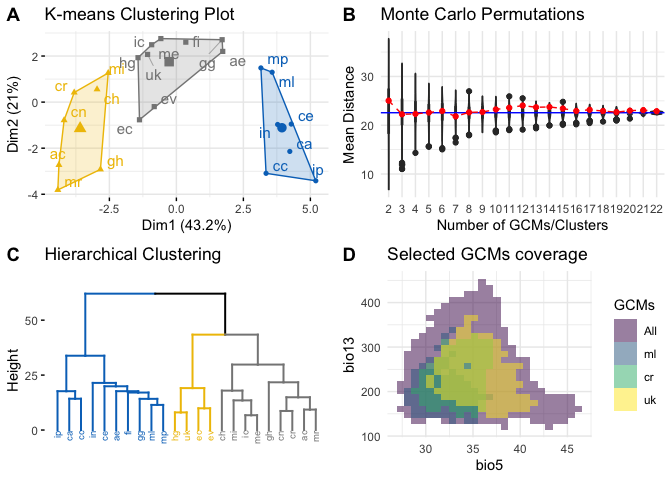
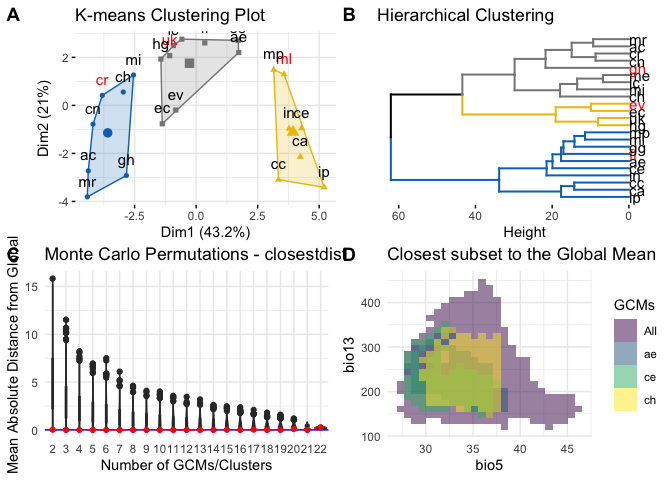
lgo

diff --git a/README.md b/README.md
@@ -6,6 +6,8 @@
 <!-- badges: start -->
 <!-- badges: end -->
 
+# chooseGCM <a href="https://luizesser.github.io/chooseGCM/"><img src="man/figures/logo.png" align="right" height="85" alt="chooseGCM website" /></a>
+
 The goal of chooseGCM is to help researchers aiming to project Species
 Distribution Models and Ecological Niche Models to future scenarios by
 applying a selection routine to the General Circulation Models.
@@ -84,6 +86,7 @@ it is in supplementary data from studies using this package.
 
 ``` r
 res <- compare_gcms(s, var_names, study_area_parana, k = 3)
+#> CRS from s and study_area are not identical. Reprojecting study area.
 #> Warning: The `<scale>` argument of `guides()` cannot be `FALSE`. Use "none" instead as
 #> of ggplot2 3.3.4.
 #> ℹ The deprecated feature was likely used in the factoextra package.
@@ -132,6 +135,7 @@ a list of GCMs with a table associated with each of them.
 ``` r
 # Summary of GCMs
 s_sum <- summary_gcms(s, var_names, study_area_parana)
+#> CRS from s and study_area are not identical. Reprojecting study area.
 s_sum
 #> $ac
 #>         min quantile_0.25 median      mean quantile_0.75   max        sd NAs
@@ -377,7 +381,10 @@ available methods.
 
 ``` r
 # Pearson Correlation between GCMs
-s_cor <- cor_gcms(s, var_names, study_area_parana, method = "pearson")
+s_cor <- cor_gcms(s, var_names, study_area_parana, scale = TRUE, method = "pearson")
+#> CRS from s and study_area are not identical. Reprojecting study area.
+#> Scale for fill is already present.
+#> Adding another scale for fill, which will replace the existing scale.
 s_cor
 #> $cor_matrix
 #>           ac        ae        ca        cc        ce        ch        cn
@@ -499,6 +506,7 @@ clusters in the `compare_gcms` function and in further presented
 ``` r
 # Euclidean Distance between GCMs
 s_dist <- dist_gcms(s, var_names, study_area_parana, method = "euclidean")
+#> CRS from s and study_area are not identical. Reprojecting study area.
 s_dist
 #> $distances
 #>           ac        ae        ca        cc        ce        ch        cn
@@ -614,9 +622,10 @@ clusters.
 
 ``` r
 kmeans_gcms(s, var_names, study_area_parana, k = 3, method = "euclidean")
+#> CRS from s and study_area are not identical. Reprojecting study area.
 #> $suggested_gcms
 #>    1    2    3 
-#> "ml" "uk" "cr" 
+#> "uk" "cr" "ml" 
 #> 
 #> $kmeans_plot
 ```
@@ -637,8 +646,9 @@ variables as axis as provided here.
 
 ``` r
 kmeans_gcms(s, var_names, study_area_parana, k = 3)
+#> CRS from s and study_area are not identical. Reprojecting study area.
 #> $suggested_gcms
-#> [1] "ip" "uk" "ac"
+#> [1] "ic" "gh" "in"
 #> 
 #> $kmeans_plot
 ```
@@ -654,6 +664,11 @@ with metrics in the next section).
 
 ``` r
 hclust_gcms(s, var_names, study_area_parana, k = 3)
+#> CRS from s and study_area are not identical. Reprojecting study area.
+#> $suggested_gcms
+#> [1] "gh" "fi" "ev"
+#> 
+#> $dend_plot
 ```
 
 <img src="man/figures/README-unnamed-chunk-15-1.png" width="100%" />
@@ -664,6 +679,11 @@ resolution data.
 
 ``` r
 hclust_gcms(s, var_names, study_area_parana, k = 3, n = 1000)
+#> CRS from s and study_area are not identical. Reprojecting study area.
+#> $suggested_gcms
+#> [1] "gh" "ml" "fi"
+#> 
+#> $dend_plot
 ```
 
 <img src="man/figures/README-unnamed-chunk-16-1.png" width="100%" />
@@ -686,6 +706,7 @@ and ‘hclust’.
 
 ``` r
 optk_gcms(s, var_names, study_area_parana, cluster = "kmeans", method = "wss", n = 1000)
+#> CRS from s and study_area are not identical. Reprojecting study area.
 ```
 
 <img src="man/figures/README-unnamed-chunk-17-1.png" width="100%" />
@@ -701,6 +722,7 @@ number of clusters is marked with a dashed line (2 clusters).
 
 ``` r
 optk_gcms(s, var_names, study_area_parana, cluster = "kmeans", method = "silhouette", n = 1000)
+#> CRS from s and study_area are not identical. Reprojecting study area.
 ```
 
 <img src="man/figures/README-unnamed-chunk-18-1.png" width="100%" />
@@ -718,6 +740,7 @@ is the number of bootstrap permutations.
 
 ``` r
 optk_gcms(s, var_names, study_area_parana, cluster = "kmeans", method = "gap_stat", n = 1000)
+#> CRS from s and study_area are not identical. Reprojecting study area.
 #> Warning: did not converge in 10 iterations
 #> Warning: did not converge in 10 iterations
 #> Warning: did not converge in 10 iterations
@@ -742,105 +765,105 @@ selected GCMs using the kmeans function in all possible values of `k`
 and plots it in red.
 
 ``` r
-montecarlo_gcms(s, var_names, study_area_parana, perm = 10000, method = "euclidean")
+montecarlo_gcms(s, var_names, study_area_parana, perm = 10000, dist_method = "euclidean", clustering_method = "kmeans")
 #> $montecarlo_plot
 ```
 
 <img src="man/figures/README-unnamed-chunk-20-1.png" width="100%" />
 
     #> 
-    #> $all_kmeans
-    #> $all_kmeans$`k=2`
+    #> $suggested_gcms
+    #> $suggested_gcms$k2
     #>    1    2 
     #> "cr" "ml" 
     #> 
-    #> $all_kmeans$`k=3`
+    #> $suggested_gcms$k3
     #>    1    2    3 
     #> "uk" "ml" "cr" 
     #> 
-    #> $all_kmeans$`k=4`
+    #> $suggested_gcms$k4
     #>    1    2    3    4 
-    #> "ca" "cr" "uk" "gg" 
+    #> "uk" "cr" "gg" "ca" 
     #> 
-    #> $all_kmeans$`k=5`
+    #> $suggested_gcms$k5
     #>    1    2    3    4    5 
-    #> "ac" "gg" "ic" "uk" "ca" 
+    #> "ca" "ac" "uk" "gg" "ic" 
     #> 
-    #> $all_kmeans$`k=6`
+    #> $suggested_gcms$k6
     #>    1    2    3    4    5    6 
-    #> "uk" "me" "ca" "mr" "cr" "ml" 
+    #> "cr" "ml" "me" "mr" "ca" "uk" 
     #> 
-    #> $all_kmeans$`k=7`
+    #> $suggested_gcms$k7
     #>    1    2    3    4    5    6    7 
-    #> "ca" "uk" "ic" "mr" "gg" "cr" "ml" 
+    #> "ca" "uk" "mr" "cr" "ml" "ic" "gg" 
     #> 
-    #> $all_kmeans$`k=8`
+    #> $suggested_gcms$k8
     #>    1    2    3    4    5    6    7    8 
     #> "gg" "ca" "ml" "ec" "ic" "cr" "mr" "hg" 
     #> 
-    #> $all_kmeans$`k=9`
+    #> $suggested_gcms$k9
     #>    1    2    3    4    5    6    7    8    9 
-    #> "hg" "cr" "gh" "gg" "ac" "ml" "ec" "ic" "ca" 
+    #> "hg" "cr" "gg" "ca" "gh" "ic" "ec" "ml" "ac" 
     #> 
-    #> $all_kmeans$`k=10`
+    #> $suggested_gcms$k10
     #>    1    2    3    4    5    6    7    8    9   10 
-    #> "gh" "ml" "cr" "ce" "ec" "ac" "gg" "hg" "ic" "ca" 
+    #> "ca" "ml" "gg" "gh" "cr" "hg" "ic" "ce" "ec" "ac" 
     #> 
-    #> $all_kmeans$`k=11`
+    #> $suggested_gcms$k11
     #>    1    2    3    4    5    6    7    8    9   10   11 
-    #> "cr" "ca" "gg" "ml" "ac" "ec" "gh" "ce" "hg" "ic" "in" 
+    #> "ml" "gg" "ca" "gh" "in" "cr" "ec" "hg" "ic" "ce" "ac" 
     #> 
-    #> $all_kmeans$`k=12`
+    #> $suggested_gcms$k12
     #>    1    2    3    4    5    6    7    8    9   10   11   12 
-    #> "ml" "in" "ac" "ce" "cr" "ic" "gh" "gg" "ip" "ca" "hg" "ec" 
+    #> "ip" "ic" "in" "cr" "gg" "hg" "ml" "ca" "gh" "ec" "ce" "ac" 
     #> 
-    #> $all_kmeans$`k=13`
+    #> $suggested_gcms$k13
     #>    1    2    3    4    5    6    7    8    9   10   11   12   13 
-    #> "ec" "ce" "ic" "hg" "cr" "ae" "in" "fi" "gh" "ml" "ac" "ip" "ca" 
+    #> "ec" "in" "ml" "ac" "ce" "ca" "ae" "gh" "hg" "ic" "cr" "ip" "fi" 
     #> 
-    #> $all_kmeans$`k=14`
+    #> $suggested_gcms$k14
     #>    1    2    3    4    5    6    7    8    9   10   11   12   13   14 
-    #> "cn" "ip" "ca" "hg" "ec" "gh" "ch" "ce" "in" "ml" "fi" "ic" "ae" "ac" 
+    #> "ch" "ce" "ca" "ml" "ae" "gh" "in" "ec" "hg" "ip" "ac" "fi" "ic" "cn" 
     #> 
-    #> $all_kmeans$`k=15`
+    #> $suggested_gcms$k15
     #>    1    2    3    4    5    6    7    8    9   10   11   12   13   14   15 
-    #> "ml" "ae" "hg" "gh" "fi" "cn" "ch" "ce" "ec" "ca" "ac" "ip" "mi" "in" "ic" 
+    #> "ec" "hg" "ae" "in" "ca" "mi" "fi" "ml" "ch" "ce" "ac" "gh" "ip" "cn" "ic" 
     #> 
-    #> $all_kmeans$`k=16`
+    #> $suggested_gcms$k16
     #>    1    2    3    4    5    6    7    8    9   10   11   12   13   14   15   16 
-    #> "in" "ip" "ca" "gh" "ic" "ac" "ce" "ec" "mi" "ch" "ml" "cn" "hg" "gg" "fi" "ae" 
+    #> "fi" "hg" "gh" "ec" "ip" "ch" "mi" "in" "cn" "ac" "ic" "ml" "ca" "ce" "gg" "ae" 
     #> 
-    #> $all_kmeans$`k=17`
+    #> $suggested_gcms$k17
     #>    1    2    3    4    5    6    7    8    9   10   11   12   13   14   15   16 
-    #> "ca" "ae" "ip" "hg" "ce" "ml" "ic" "cc" "gh" "cn" "ch" "ec" "ac" "fi" "gg" "mi" 
+    #> "ic" "gh" "ec" "ml" "ce" "ac" "hg" "mi" "cn" "ch" "ca" "in" "ae" "fi" "gg" "cc" 
     #>   17 
-    #> "in" 
+    #> "ip" 
     #> 
-    #> $all_kmeans$`k=18`
+    #> $suggested_gcms$k18
     #>    1    2    3    4    5    6    7    8    9   10   11   12   13   14   15   16 
-    #> "ca" "in" "ml" "gg" "ce" "cc" "fi" "ip" "ae" "ac" "ic" "gh" "hg" "ch" "mi" "ec" 
+    #> "ch" "mp" "mi" "in" "hg" "ae" "ca" "ec" "ce" "ip" "fi" "cn" "gh" "ml" "ac" "ic" 
     #>   17   18 
-    #> "mp" "cn" 
+    #> "cc" "gg" 
     #> 
-    #> $all_kmeans$`k=19`
+    #> $suggested_gcms$k19
     #>    1    2    3    4    5    6    7    8    9   10   11   12   13   14   15   16 
     #> "ip" "gh" "ca" "ec" "mi" "ac" "ce" "ch" "ae" "fi" "cn" "cr" "in" "ml" "mp" "gg" 
     #>   17   18   19 
     #> "ic" "cc" "hg" 
     #> 
-    #> $all_kmeans$`k=20`
+    #> $suggested_gcms$k20
     #>    1    2    3    4    5    6    7    8    9   10   11   12   13   14   15   16 
     #> "ip" "ec" "mi" "cc" "ch" "ae" "gg" "mp" "ac" "ic" "ca" "cr" "fi" "hg" "gh" "cn" 
     #>   17   18   19   20 
     #> "ml" "in" "mr" "ce" 
     #> 
-    #> $all_kmeans$`k=21`
+    #> $suggested_gcms$k21
     #>    1    2    3    4    5    6    7    8    9   10   11   12   13   14   15   16 
     #> "ip" "cr" "gh" "ev" "ca" "ae" "mi" "ml" "ch" "hg" "fi" "ce" "ec" "gg" "mp" "mr" 
     #>   17   18   19   20   21 
     #> "cc" "cn" "in" "ac" "ic" 
     #> 
-    #> $all_kmeans$`k=22`
+    #> $suggested_gcms$k22
     #>    1    2    3    4    5    6    7    8    9   10   11   12   13   14   15   16 
     #> "ac" "gg" "ev" "mi" "ml" "ip" "ec" "ce" "cn" "ic" "cr" "ch" "fi" "gh" "ca" "ae" 
     #>   17   18   19   20   21   22 
@@ -855,7 +878,7 @@ also possible to see the density of GCMs using the `highlight=sum` as
 argument.
 
 ``` r
-env_gcms(s, var_names, study_area_parana, highlight = res$suggested_gcms$`k=3`)
+env_gcms(s, var_names, study_area_parana, highlight = res$suggested_gcms$k3)
 ```
 
 <img src="man/figures/README-unnamed-chunk-21-1.png" width="100%" />
@@ -865,6 +888,45 @@ env_gcms(s, var_names, study_area_parana, highlight = "sum")
 ```
 
 <img src="man/figures/README-unnamed-chunk-22-1.png" width="100%" />
+
+#### A greedy algorithm for GCMs selection
+
+As a way to optimize GCMs selection, we implemented a greedy algorithm,
+which calculates the distance matrix between all GCMs and calculates the
+mean distance in the matrix (global mean distance). The algorithm
+selects a random pair of GCMs and test if adding any other GCM to that
+pair will drive the mean distance closer to the global mean. The
+algorithm stops when adding a new GCM does not return a mean distance
+closer to the global mean or when the distance reaches a minimum value
+(standard = 0.0000001).
+
+``` r
+closestdist_gcms(s, var_names, study_area_parana)
+#> CRS from s and study_area are not identical. Reprojecting study area.
+#> $suggested_gcms
+#> [1] "ae" "cc" "hg" "mi" "ec" "ml"
+#> 
+#> $best_mean_diff
+#> [1] 3.028944e-05
+#> 
+#> $global_mean
+#> [1] 22.5668
+```
+
+We can also provide the value of k we want to use:
+
+``` r
+closestdist_gcms(s, var_names, study_area_parana, k=3)
+#> CRS from s and study_area are not identical. Reprojecting study area.
+#> $suggested_gcms
+#> [1] "ae" "ce" "ch"
+#> 
+#> $best_mean_diff
+#> [1] 0.001482039
+#> 
+#> $global_mean
+#> [1] 22.5668
+```
 
 #### Wrapping Up
 
@@ -876,5 +938,5 @@ would be able to inform a decent variation in our projections.
 
 ``` r
 tictoc::toc()
-#> 51.309 sec elapsed
+#> 46.26 sec elapsed
 ```
